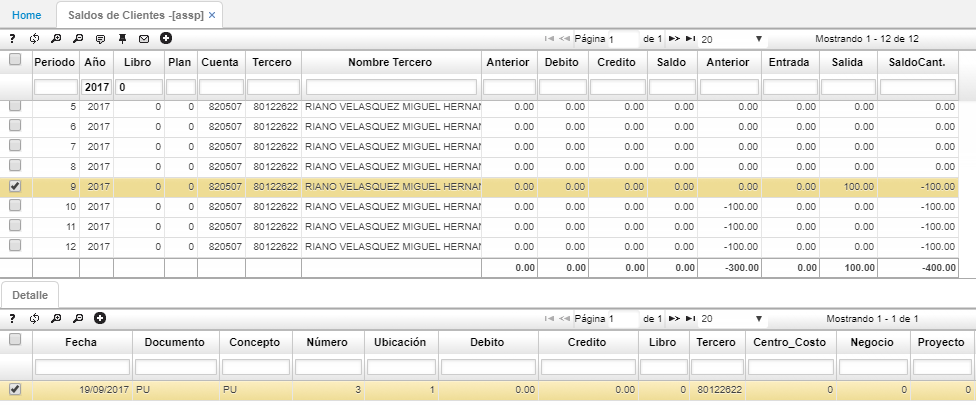
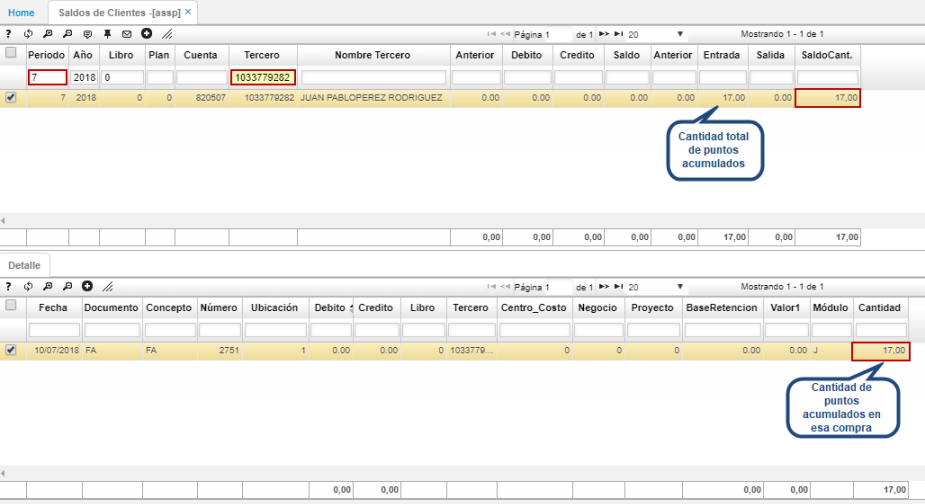
assp

diff --git a/Operacion/crm/mercadeo/wfidelizacion/assp.md b/Operacion/crm/mercadeo/wfidelizacion/assp.md
@@ -7,6 +7,14 @@ editable: si
 
 # ASSP - Saldos de clientes
 
-La aplicación ASSP permite visualizar los saldos de los puntos asociados a un tercero.  
+La aplicación **ASSP** permite visualizar los saldos de los puntos asociados a un tercero.  
+
+## [Fidelización de clientes](http://docs.oasiscom.com/Operacion/crm/mercadeo/wfidelizacion/assp#fidelización-de-clientes)
+
+En la aplicación ASSP podemos consultar los puntos que los clientes han acumulado por sus compras. Para consultar dichos puntos, filtramos por el número de identificación del cliente.  
+
+En el maestro se visualiza el tercero, en el campo **Entrada** la cantidad de puntos acumulados en total, en el campo **Salida** la cantidad de puntos redimidos por el cliente y en el campo **Saldo Cant.** los puntos disponibles.  
+
+En el detalle, se reflejarán todas las facturas de compra del cliente. En el campo **Cantidad** se podrán ver los puntos obtenidos por cada compra.  
 
 ![](assp.png)

diff --git a/Operacion/scm/pos/jcajero/jfac.md b/Operacion/scm/pos/jcajero/jfac.md
@@ -274,7 +274,7 @@ En la aplicación **BFOR** se debe parametrizar la forma de pago _Redención Pun
 
 De acuerdo con la parametrización anterior, en la aplicación **JFAC** se realizará la factura de compra del cliente registrado en la aplicación [**BTER - Terceros**](http://docs.oasiscom.com/Operacion/common/btercer/bter#parametrizaci%C3%B3n-fidelizaci%C3%B3n-de-clientes).  
 
-La valor de la compra fue de 1.786 pesos, es decir, que el cliente acumuló 17 puntos.  
+El valor de la compra fue de 1.786 pesos, es decir, que el cliente acumuló 17 puntos.  
 
 ![](jfac43.png)
 
